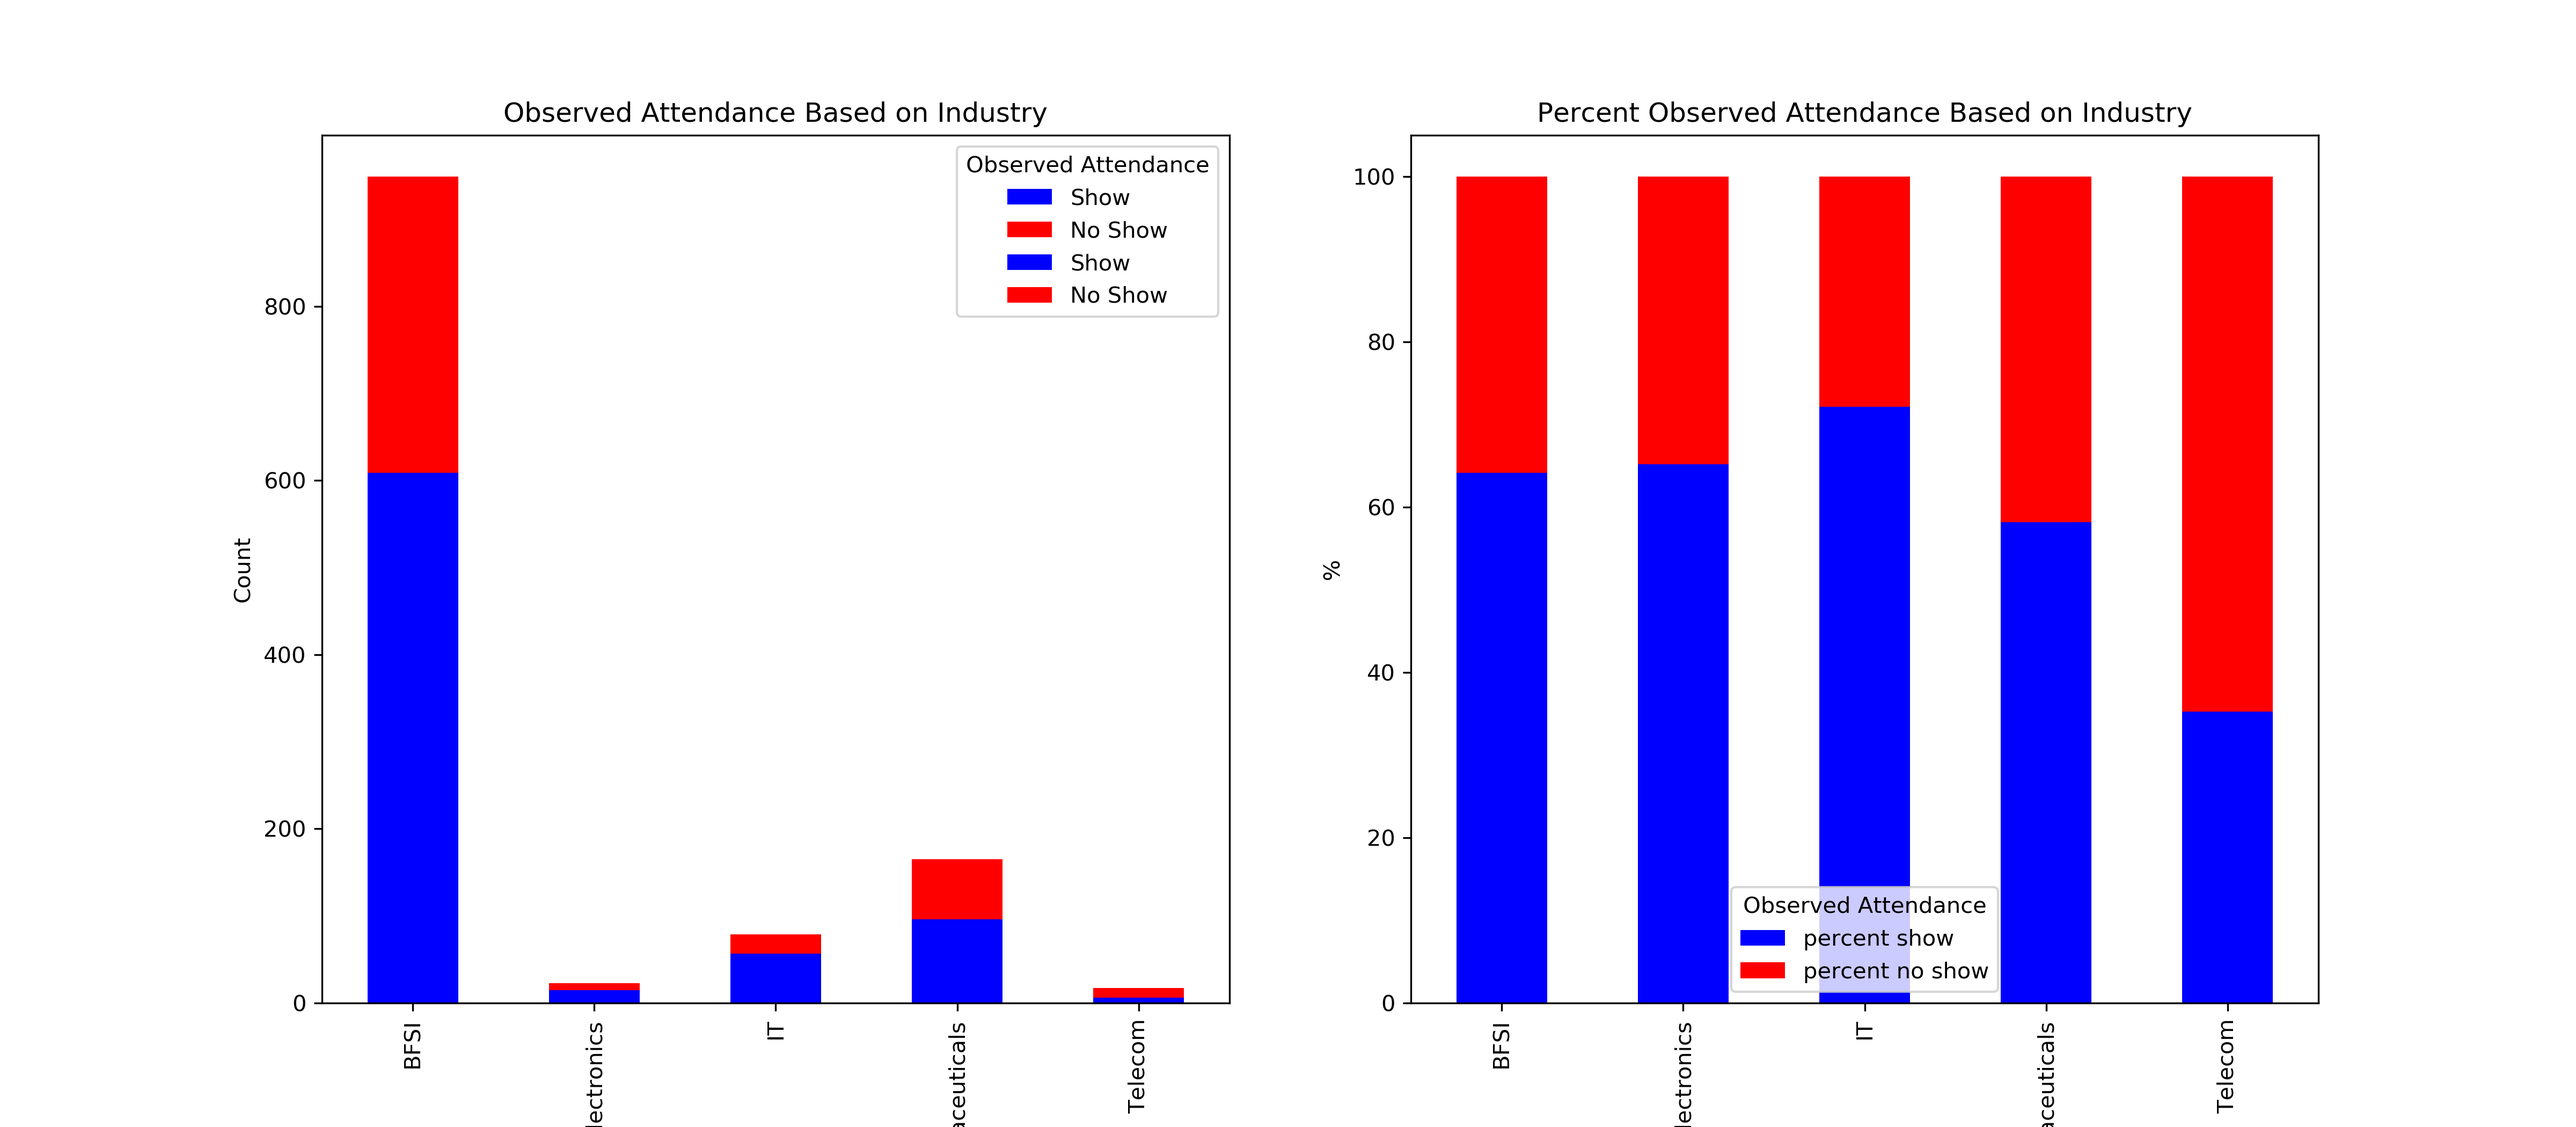
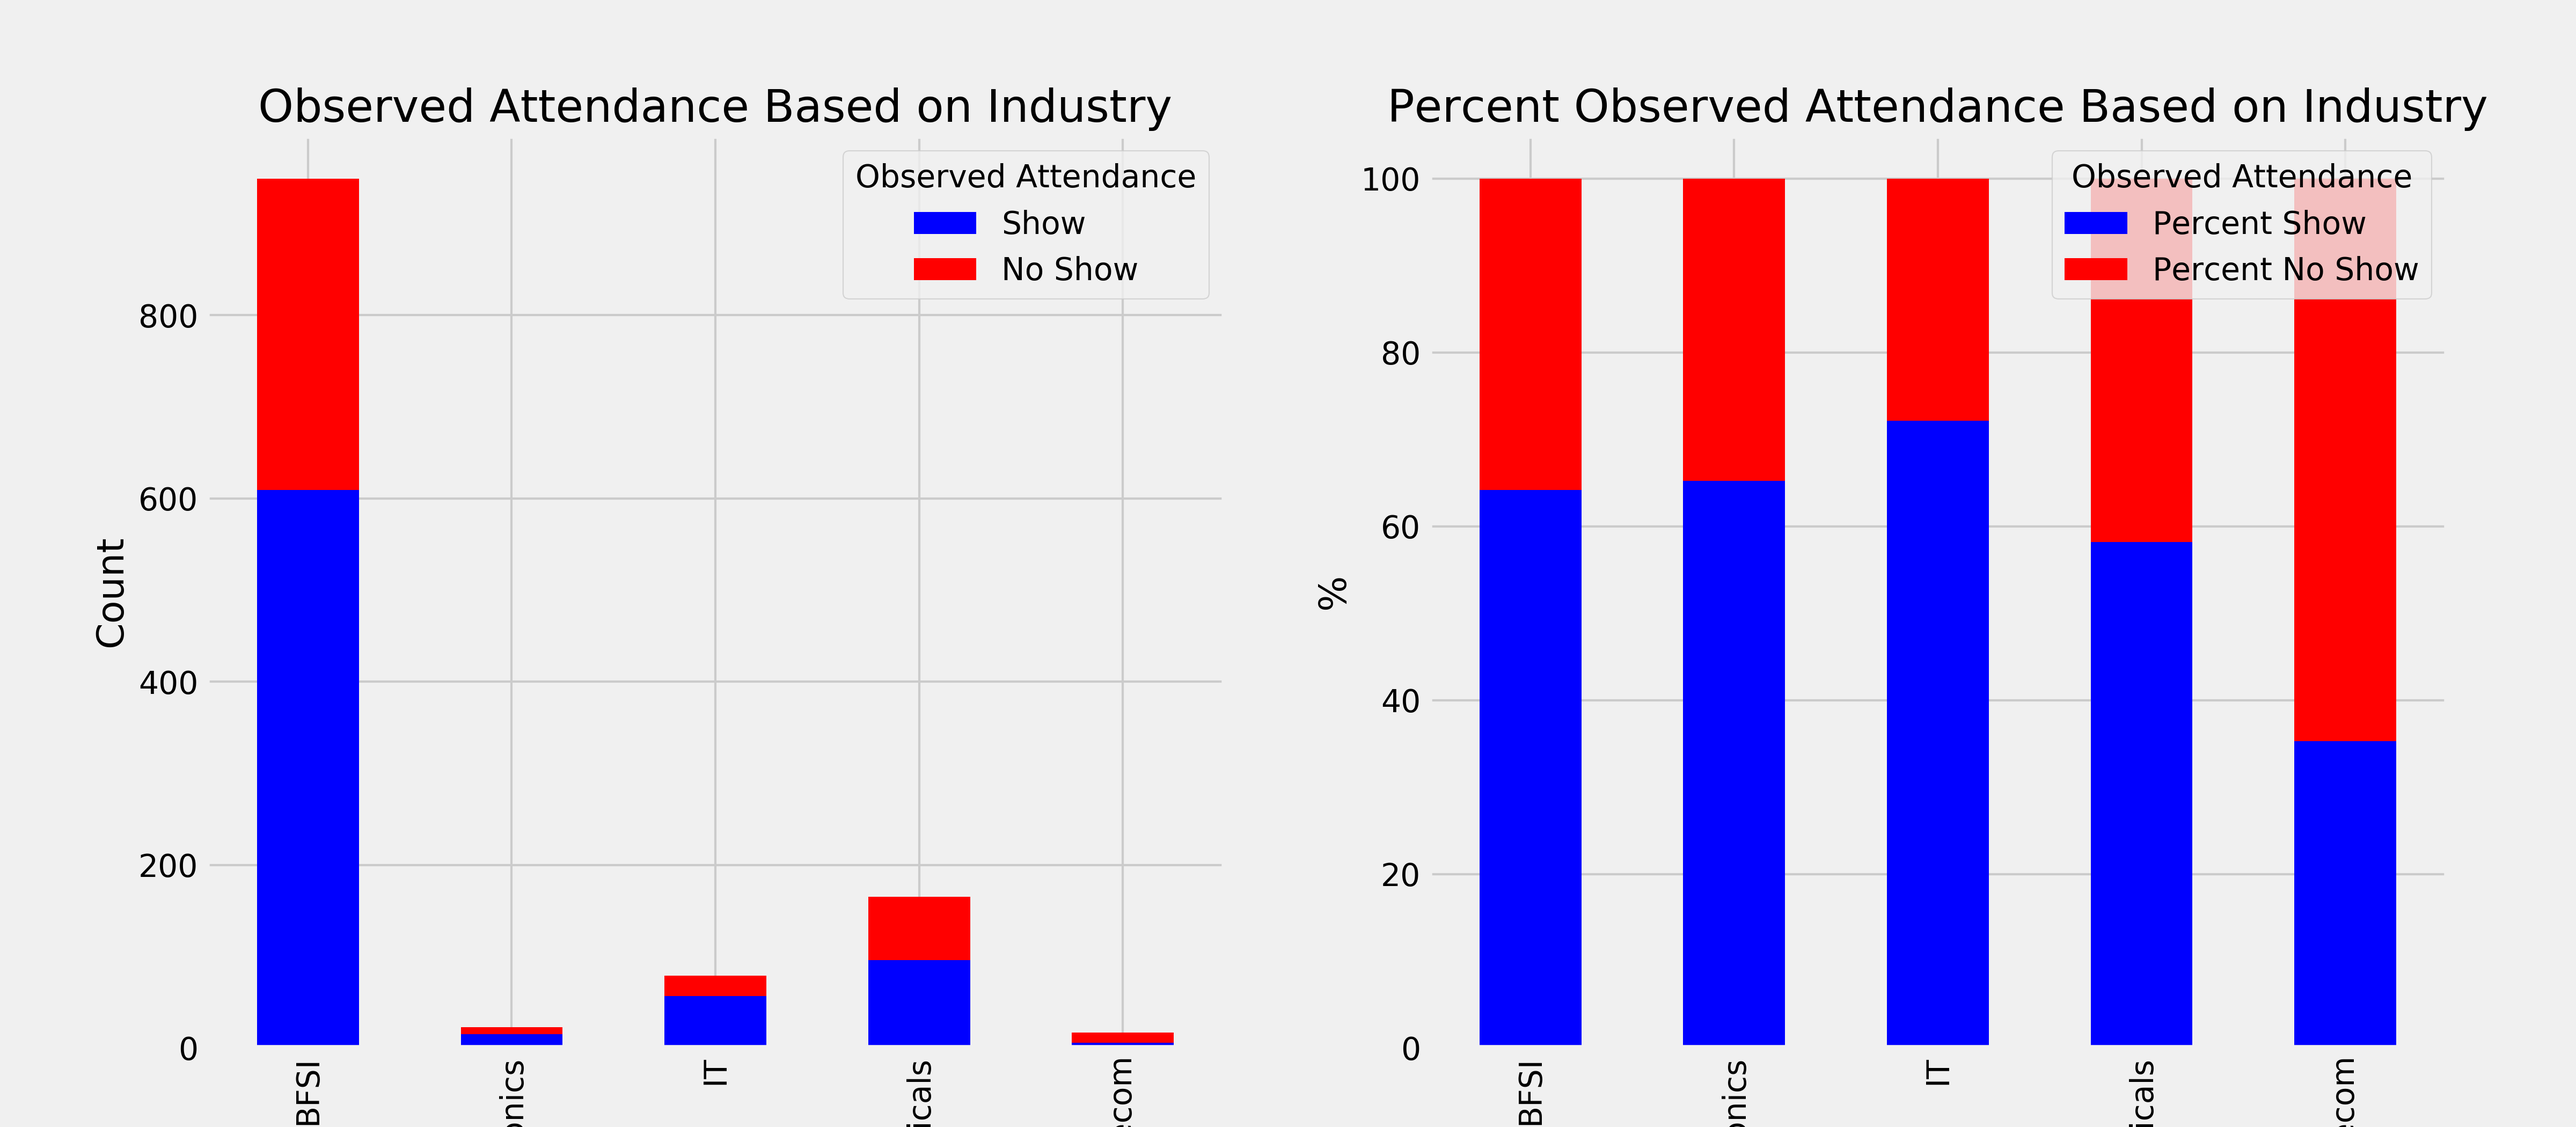
wed mid

diff --git a/interview/src/main.py b/interview/src/main.py
@@ -28,6 +28,9 @@ from tensorflow.keras.layers import Dense
 from tensorflow.keras.optimizers import SGD
 
 from plot_creator import get_stacked_bars
+plt.rcParams.update({'font.size': 16})
+plt.style.use('fivethirtyeight')
+plt.close('all')
 
 def load_df():
     cols = np.arange(0,23)
@@ -52,9 +55,9 @@ def fix_date(df):
 def break_down_date(df):
     df['Year'] = df['Date'].apply(lambda x: x.year)
     df['Month'] = df['Date'].apply(lambda x: x.month)
-    df['day'] = df['Date'].apply(lambda x: x.day)
+    df['Day'] = df['Date'].apply(lambda x: x.day)
     #0 is Monday
-    df['dayofweek'] = df['Date'].apply(lambda x: x.dayofweek)
+    df['Day of Week'] = df['Date'].apply(lambda x: x.dayofweek)
     return df
 
 def combine_types(df, col, other_entries, combine_to):
@@ -73,7 +76,7 @@ def df_col_setup(df):
         'Hope there will be no unscheduled meetings': 'No Unscheduled Meetings',
         "Can I Call you three hours before the interview and follow up on your attendance for the interview": '3 Hour Confirmation Call',
         "Can I have an alternative number/ desk number. I assure you that I will not trouble you too much": "Alternate Phone Number",
-        'Have you taken a printout of your updated resume. Have you read the JD and understood the same': "Took Resume, Read JD",
+        'Have you taken a printout of your updated resume. Have you read the JD and understood the same': "Took Resume and Read JD",
         'Are you clear with the venue details and the landmark.' : 'Confirmed Location',
         'Has the call letter been shared' : 'Call Letter Shared',
         'Marital Status' : 'Married'
@@ -81,12 +84,12 @@ def df_col_setup(df):
 
     df.rename(columns = col_rename_dict, inplace = True)
     cols_with_NaN = ['No Unscheduled Meetings', 'Permissions',
-                     'Alternate Phone Number', 'Took Resume, Read JD', 'Confirmed Location', 'Call Letter Shared', '3 Hour Confirmation Call']
+                     'Alternate Phone Number', 'Took Resume and Read JD', 'Confirmed Location', 'Call Letter Shared', '3 Hour Confirmation Call']
     for col in cols_with_NaN:
         df[col].fillna('Na', inplace = True)
 
     clean_col(df, ["Observed Attendance", 'No Unscheduled Meetings', "Candidate Job Location", 
-                    "Location", 'Permissions', 'Alternate Phone Number', 'Call Letter Shared', '3 Hour Confirmation Call', 'Took Resume, Read JD',
+                    "Location", 'Permissions', 'Alternate Phone Number', 'Call Letter Shared', '3 Hour Confirmation Call', 'Took Resume and Read JD',
                     'Confirmed Location'])
     
     # If Not sure or NA is provided, grouped into No for boolean values - may reconsider adding third "Unknown" entry later
@@ -98,7 +101,7 @@ def df_col_setup(df):
                     ('Alternate Phone Number', 'yes'),
                     ('3 Hour Confirmation Call', 'yes'),
                     ('Call Letter Shared', 'yes'),
-                    ('Took Resume, Read JD', 'yes'),
+                    ('Took Resume and Read JD', 'yes'),
                     ('Confirmed Location', 'yes')
                     ]
     for col, def_1 in cols_to_bool:
@@ -156,7 +159,7 @@ def mlp_model(num_neur_hid = 10, num_epochs = 500):
     df_y = pd.read_csv("../data/onehot_y.csv",index_col="Unnamed: 0")
     # Code to drop all columns:
     # df_X.drop(['Gender', 'Permissions', 'No Unscheduled Meetings', 
-    #       'Alternate Phone Number', 'Took Resume, Read JD', 'Confirmed Location', 
+    #       'Alternate Phone Number', 'Took Resume and Read JD', 'Confirmed Location', 
     #       'Call Letter Shared', 'Married', 'Local Candidate', '3 Hour Confirmation Call']
 
     X = df_X.to_numpy()

diff --git a/interview/src/plot_creator.py b/interview/src/plot_creator.py
@@ -1,4 +1,20 @@
 import matplotlib.pyplot as plt
+import numpy as np
+
+def x_val_analyzer(df, x):
+    if x == 'Day of Week':
+        answer_dict = {0: 'Monday', 1: 'Tuesday', 2: 'Wednesday',
+                        3: 'Thursday', 4: 'Friday', 5: 'Saturday', 6: 'Sunday'}
+    elif x == 'Month':
+        answer_dict = {1: 'January', 2: 'February', 3: 'March', 4: 'April', 5: 'May', 6: 'June', 7: 'July', 8: 'August', 9: 'September', 10: 'October', 11: 'November', 12: 'December'}
+    elif df[x].unique() == np.array([1, 0]):
+        answer_dict = {1: 'Yes', 0: 'No'}
+    elif x =='Gender':
+        answer_dict = {1: 'Male', 0: 'Female'}
+    else:
+        return df
+    df[x] = df[x].apply(lambda x: answer_dict[x])
+    return df
 
 def get_stacked_bars(df, x='dayofweek', y='Observed Attendance', order=None, override_x = None):
     specific_df = df.loc[:, [x, y, 'Date']]
@@ -6,6 +22,7 @@ def get_stacked_bars(df, x='dayofweek', y='Observed Attendance', order=None, ove
     specific_df.rename(columns={'Date': 'Count'}, inplace=True)
     showDict = {0: 'No Show', 1: 'Show'}
     specific_df[y] = specific_df[y].apply(lambda z: showDict[z])
+    specific_df = x_val_analyzer(specific_df, x)
 
     pivot_df = specific_df.pivot(index=x, columns=y, values='Count')
     pivot_df.fillna(0, inplace=True)
@@ -14,25 +31,24 @@ def get_stacked_bars(df, x='dayofweek', y='Observed Attendance', order=None, ove
     fig, axes = plt.subplots(1, 2, figsize=(16, 7))
     pivot_df.plot.bar(stacked=True, color=[
         'blue', 'red'], figsize=(16, 7), ax=axes[0])
-    pivot_df.plot.bar(stacked=True, color=[
-                        'blue', 'red'], figsize=(16, 7), ax=axes[0])
 
-    pivot_df['percent show'] = round(
+    pivot_df['Percent Show'] = round(
         100 * pivot_df['Show'] / (pivot_df['Show'] + pivot_df['No Show']), 2)
-    pivot_df['percent no show'] = round(
+    pivot_df['Percent No Show'] = round(
         100 * pivot_df['No Show'] / (pivot_df['Show'] + pivot_df['No Show']), 2)
-    pivot_df[['percent show', 'percent no show']].plot.bar(
+    pivot_df[['Percent Show', 'Percent No Show']].plot.bar(
         stacked=True, color=['blue', 'red'], figsize=(16, 7), ax=axes[1])
 
     if override_x != None:
         x = override_x
     axes[0].set_xlabel(x)
+    axes[0].set_xticks(rotation=30, ha='right')
     axes[0].set_ylabel('Count')
     axes[0].set_title('{} Based on {}'.format(y, x))
-
+    axes[0].set_xticks(rotation=30, )
     axes[1].set_xlabel(x)
     axes[1].set_ylabel('%')
-
+    axes[1].set_xticks(rotation=30, ha='right')
     axes[1].set_title('Percent {} Based on {}'.format(y, x))
 
     x = x.replace(' ', '_')
